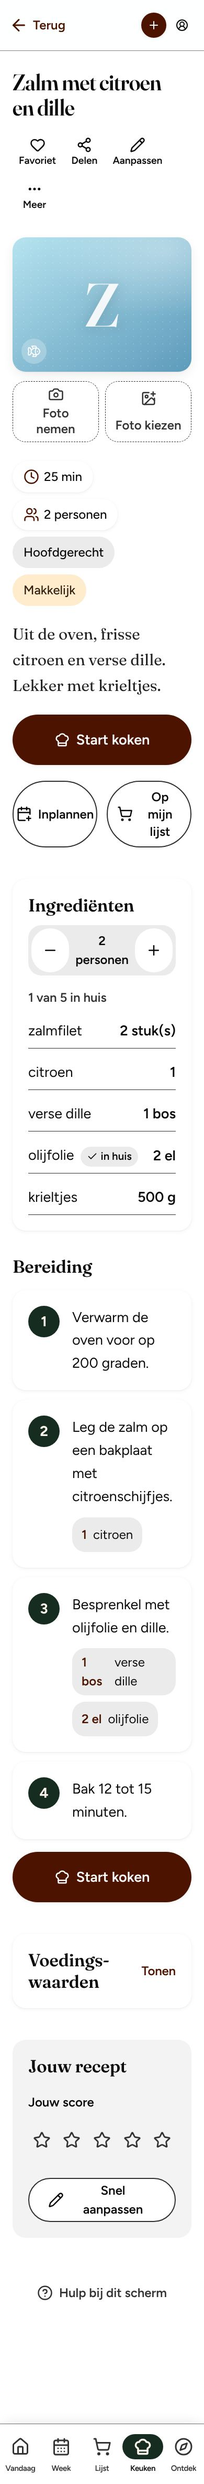
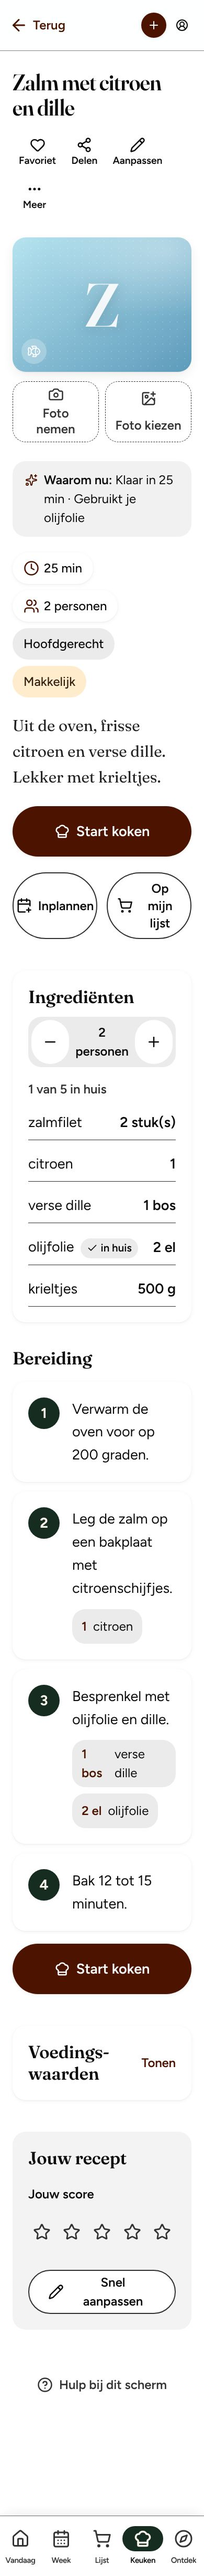
Ronde 3: voor- en na-beelden (Vandaag, Recept) en schermbeelden van de nieuwe functies
Claude-Session: https://claude.ai/code/session_01UwbmWE9PncTeGkknMVZsS6

diff --git a/docs/foodloapp-v2/schermen/actueel/index.html b/docs/foodloapp-v2/schermen/actueel/index.html
@@ -1,5 +1,5 @@
-<!doctype html><html lang="nl"><meta charset="utf-8"><meta name="viewport" content="width=device-width,initial-scale=1"><title>Foodloapp: voor en na ronde 2</title>
+<!doctype html><html lang="nl"><meta charset="utf-8"><meta name="viewport" content="width=device-width,initial-scale=1"><title>Foodloapp: voor en na ronde 3</title>
 <style>body{font:16px/1.5 system-ui,sans-serif;margin:16px;background:#faf7f2;color:#222}h1{font-size:1.5rem}
 .rij{display:flex;flex-wrap:wrap;gap:16px}figure{margin:0;max-width:280px}img{width:100%;border:1px solid #ddd;border-radius:12px}
 .paar{display:grid;grid-template-columns:1fr 1fr;gap:6px}figcaption{font-weight:600;margin:4px 0}</style>
-<h1>Foodloapp: voor en na ronde 2</h1><p>Stand 13 november 2026. Alleen verzonnen voorbeeldgegevens.</p><h2>Thema: extra-duidelijk</h2><div class="rij"><figure><figcaption>vandaag</figcaption><div class="paar"><img src="../voor-ronde2-2026-11-13/extra-duidelijk-01-vandaag.jpg" alt="Voor: vandaag"><img src="extra-duidelijk-01-vandaag.jpg" alt="Na: vandaag"></div></figure><figure><figcaption>week</figcaption><div class="paar"><img src="../voor-ronde2-2026-11-13/extra-duidelijk-02-week.jpg" alt="Voor: week"><img src="extra-duidelijk-02-week.jpg" alt="Na: week"></div></figure><figure><figcaption>lijst</figcaption><div class="paar"><img src="../voor-ronde2-2026-11-13/extra-duidelijk-03-lijst.jpg" alt="Voor: lijst"><img src="extra-duidelijk-03-lijst.jpg" alt="Na: lijst"></div></figure><figure><figcaption>winkelmodus</figcaption><div class="paar"><img src="../voor-ronde2-2026-11-13/extra-duidelijk-04-winkelmodus.jpg" alt="Voor: winkelmodus"><img src="extra-duidelijk-04-winkelmodus.jpg" alt="Na: winkelmodus"></div></figure><figure><img src="extra-duidelijk-05-recept.jpg" alt="recept"><figcaption>recept</figcaption></figure><figure><img src="extra-duidelijk-06-kookstand.jpg" alt="kookstand"><figcaption>kookstand</figcaption></figure><figure><img src="extra-duidelijk-07-keuken.jpg" alt="keuken"><figcaption>keuken</figcaption></figure><figure><img src="extra-duidelijk-08-ontdek.jpg" alt="ontdek"><figcaption>ontdek</figcaption></figure><figure><figcaption>instellingen</figcaption><div class="paar"><img src="../voor-ronde2-2026-11-13/extra-duidelijk-09-instellingen.jpg" alt="Voor: instellingen"><img src="extra-duidelijk-09-instellingen.jpg" alt="Na: instellingen"></div></figure></div><h2>Thema: licht</h2><div class="rij"><figure><figcaption>vandaag</figcaption><div class="paar"><img src="../voor-ronde2-2026-11-13/licht-01-vandaag.jpg" alt="Voor: vandaag"><img src="licht-01-vandaag.jpg" alt="Na: vandaag"></div></figure><figure><figcaption>week</figcaption><div class="paar"><img src="../voor-ronde2-2026-11-13/licht-02-week.jpg" alt="Voor: week"><img src="licht-02-week.jpg" alt="Na: week"></div></figure><figure><figcaption>lijst</figcaption><div class="paar"><img src="../voor-ronde2-2026-11-13/licht-03-lijst.jpg" alt="Voor: lijst"><img src="licht-03-lijst.jpg" alt="Na: lijst"></div></figure><figure><figcaption>winkelmodus</figcaption><div class="paar"><img src="../voor-ronde2-2026-11-13/licht-04-winkelmodus.jpg" alt="Voor: winkelmodus"><img src="licht-04-winkelmodus.jpg" alt="Na: winkelmodus"></div></figure><figure><img src="licht-05-recept.jpg" alt="recept"><figcaption>recept</figcaption></figure><figure><img src="licht-06-kookstand.jpg" alt="kookstand"><figcaption>kookstand</figcaption></figure><figure><img src="licht-07-keuken.jpg" alt="keuken"><figcaption>keuken</figcaption></figure><figure><img src="licht-08-ontdek.jpg" alt="ontdek"><figcaption>ontdek</figcaption></figure><figure><figcaption>instellingen</figcaption><div class="paar"><img src="../voor-ronde2-2026-11-13/licht-09-instellingen.jpg" alt="Voor: instellingen"><img src="licht-09-instellingen.jpg" alt="Na: instellingen"></div></figure></div></html>
+<h1>Foodloapp: voor en na ronde 3</h1><p>Stand 14 november 2026. Alleen verzonnen voorbeeldgegevens.</p><h2>Thema: extra-duidelijk</h2><div class="rij"><figure><figcaption>vandaag</figcaption><div class="paar"><img src="../voor-ronde3-2026-11-14/extra-duidelijk-01-vandaag.jpg" alt="Voor: vandaag"><img src="extra-duidelijk-01-vandaag.jpg" alt="Na: vandaag"></div></figure><figure><img src="extra-duidelijk-02-week.jpg" alt="week"><figcaption>week</figcaption></figure><figure><img src="extra-duidelijk-03-lijst.jpg" alt="lijst"><figcaption>lijst</figcaption></figure><figure><img src="extra-duidelijk-04-winkelmodus.jpg" alt="winkelmodus"><figcaption>winkelmodus</figcaption></figure><figure><figcaption>recept</figcaption><div class="paar"><img src="../voor-ronde3-2026-11-14/extra-duidelijk-05-recept.jpg" alt="Voor: recept"><img src="extra-duidelijk-05-recept.jpg" alt="Na: recept"></div></figure><figure><img src="extra-duidelijk-06-kookstand.jpg" alt="kookstand"><figcaption>kookstand</figcaption></figure><figure><img src="extra-duidelijk-07-keuken.jpg" alt="keuken"><figcaption>keuken</figcaption></figure><figure><img src="extra-duidelijk-08-ontdek.jpg" alt="ontdek"><figcaption>ontdek</figcaption></figure><figure><img src="extra-duidelijk-09-instellingen.jpg" alt="instellingen"><figcaption>instellingen</figcaption></figure></div><h2>Thema: licht</h2><div class="rij"><figure><figcaption>vandaag</figcaption><div class="paar"><img src="../voor-ronde3-2026-11-14/licht-01-vandaag.jpg" alt="Voor: vandaag"><img src="licht-01-vandaag.jpg" alt="Na: vandaag"></div></figure><figure><img src="licht-02-week.jpg" alt="week"><figcaption>week</figcaption></figure><figure><img src="licht-03-lijst.jpg" alt="lijst"><figcaption>lijst</figcaption></figure><figure><img src="licht-04-winkelmodus.jpg" alt="winkelmodus"><figcaption>winkelmodus</figcaption></figure><figure><figcaption>recept</figcaption><div class="paar"><img src="../voor-ronde3-2026-11-14/licht-05-recept.jpg" alt="Voor: recept"><img src="licht-05-recept.jpg" alt="Na: recept"></div></figure><figure><img src="licht-06-kookstand.jpg" alt="kookstand"><figcaption>kookstand</figcaption></figure><figure><img src="licht-07-keuken.jpg" alt="keuken"><figcaption>keuken</figcaption></figure><figure><img src="licht-08-ontdek.jpg" alt="ontdek"><figcaption>ontdek</figcaption></figure><figure><img src="licht-09-instellingen.jpg" alt="instellingen"><figcaption>instellingen</figcaption></figure></div></html>

diff --git a/docs/foodloapp-v2/schermen/actueel/README.md b/docs/foodloapp-v2/schermen/actueel/README.md
@@ -1,6 +1,6 @@
-# Foodloapp: voor en na ronde 2
+# Foodloapp: voor en na ronde 3
 
-Stand 13 november 2026. Alleen verzonnen voorbeeldgegevens (nep-databank).
+Stand 14 november 2026. Alleen verzonnen voorbeeldgegevens (nep-databank).
 
 ## Thema: extra-duidelijk
 
@@ -8,33 +8,15 @@ Stand 13 november 2026. Alleen verzonnen voorbeeldgegevens (nep-databank).
 
 | Voor | Na |
 |---|---|
-| <img src="../voor-ronde2-2026-11-13/extra-duidelijk-01-vandaag.jpg" width="260"> | <img src="extra-duidelijk-01-vandaag.jpg" width="260"> |
+| <img src="../voor-ronde3-2026-11-14/extra-duidelijk-01-vandaag.jpg" width="260"> | <img src="extra-duidelijk-01-vandaag.jpg" width="260"> |
 
-### week
-
-| Voor | Na |
-|---|---|
-| <img src="../voor-ronde2-2026-11-13/extra-duidelijk-02-week.jpg" width="260"> | <img src="extra-duidelijk-02-week.jpg" width="260"> |
-
-### lijst
+<img src="extra-duidelijk-02-week.jpg" alt="week" width="260"> <img src="extra-duidelijk-03-lijst.jpg" alt="lijst" width="260"> <img src="extra-duidelijk-04-winkelmodus.jpg" alt="winkelmodus" width="260"> ### recept
 
 | Voor | Na |
 |---|---|
-| <img src="../voor-ronde2-2026-11-13/extra-duidelijk-03-lijst.jpg" width="260"> | <img src="extra-duidelijk-03-lijst.jpg" width="260"> |
+| <img src="../voor-ronde3-2026-11-14/extra-duidelijk-05-recept.jpg" width="260"> | <img src="extra-duidelijk-05-recept.jpg" width="260"> |
 
-### winkelmodus
-
-| Voor | Na |
-|---|---|
-| <img src="../voor-ronde2-2026-11-13/extra-duidelijk-04-winkelmodus.jpg" width="260"> | <img src="extra-duidelijk-04-winkelmodus.jpg" width="260"> |
-
-<img src="extra-duidelijk-05-recept.jpg" alt="recept" width="260"> <img src="extra-duidelijk-06-kookstand.jpg" alt="kookstand" width="260"> <img src="extra-duidelijk-07-keuken.jpg" alt="keuken" width="260"> <img src="extra-duidelijk-08-ontdek.jpg" alt="ontdek" width="260"> ### instellingen
-
-| Voor | Na |
-|---|---|
-| <img src="../voor-ronde2-2026-11-13/extra-duidelijk-09-instellingen.jpg" width="260"> | <img src="extra-duidelijk-09-instellingen.jpg" width="260"> |
-
-
+<img src="extra-duidelijk-06-kookstand.jpg" alt="kookstand" width="260"> <img src="extra-duidelijk-07-keuken.jpg" alt="keuken" width="260"> <img src="extra-duidelijk-08-ontdek.jpg" alt="ontdek" width="260"> <img src="extra-duidelijk-09-instellingen.jpg" alt="instellingen" width="260"> 
 
 ## Thema: licht
 
@@ -42,30 +24,22 @@ Stand 13 november 2026. Alleen verzonnen voorbeeldgegevens (nep-databank).
 
 | Voor | Na |
 |---|---|
-| <img src="../voor-ronde2-2026-11-13/licht-01-vandaag.jpg" width="260"> | <img src="licht-01-vandaag.jpg" width="260"> |
+| <img src="../voor-ronde3-2026-11-14/licht-01-vandaag.jpg" width="260"> | <img src="licht-01-vandaag.jpg" width="260"> |
 
-### week
-
-| Voor | Na |
-|---|---|
-| <img src="../voor-ronde2-2026-11-13/licht-02-week.jpg" width="260"> | <img src="licht-02-week.jpg" width="260"> |
-
-### lijst
+<img src="licht-02-week.jpg" alt="week" width="260"> <img src="licht-03-lijst.jpg" alt="lijst" width="260"> <img src="licht-04-winkelmodus.jpg" alt="winkelmodus" width="260"> ### recept
 
 | Voor | Na |
 |---|---|
-| <img src="../voor-ronde2-2026-11-13/licht-03-lijst.jpg" width="260"> | <img src="licht-03-lijst.jpg" width="260"> |
+| <img src="../voor-ronde3-2026-11-14/licht-05-recept.jpg" width="260"> | <img src="licht-05-recept.jpg" width="260"> |
 
-### winkelmodus
+<img src="licht-06-kookstand.jpg" alt="kookstand" width="260"> <img src="licht-07-keuken.jpg" alt="keuken" width="260"> <img src="licht-08-ontdek.jpg" alt="ontdek" width="260"> <img src="licht-09-instellingen.jpg" alt="instellingen" width="260"> 
 
-| Voor | Na |
+## Nieuw in ronde 3 (telefoonscherm 390 × 844, nepgegevens)
+
+| Iets anders vanavond | Waarom nu (recept) | Dupliceren |
+|---|---|---|
+| <img src="../ronde3-nieuw/1-iets-anders-vanavond.jpg" width="240"> | <img src="../ronde3-nieuw/2-waarom-nu-recept.jpg" width="240"> | <img src="../ronde3-nieuw/3-dupliceren-menu.jpg" width="240"> |
+
+| Voorbeeld in de editor | Offline-scherm |
 |---|---|
-| <img src="../voor-ronde2-2026-11-13/licht-04-winkelmodus.jpg" width="260"> | <img src="licht-04-winkelmodus.jpg" width="260"> |
-
-<img src="licht-05-recept.jpg" alt="recept" width="260"> <img src="licht-06-kookstand.jpg" alt="kookstand" width="260"> <img src="licht-07-keuken.jpg" alt="keuken" width="260"> <img src="licht-08-ontdek.jpg" alt="ontdek" width="260"> ### instellingen
-
-| Voor | Na |
-|---|---|
-| <img src="../voor-ronde2-2026-11-13/licht-09-instellingen.jpg" width="260"> | <img src="licht-09-instellingen.jpg" width="260"> |
-
-
+| <img src="../ronde3-nieuw/4-voorbeeld-editor.jpg" width="240"> | <img src="../ronde3-nieuw/5-offline.jpg" width="240"> |
